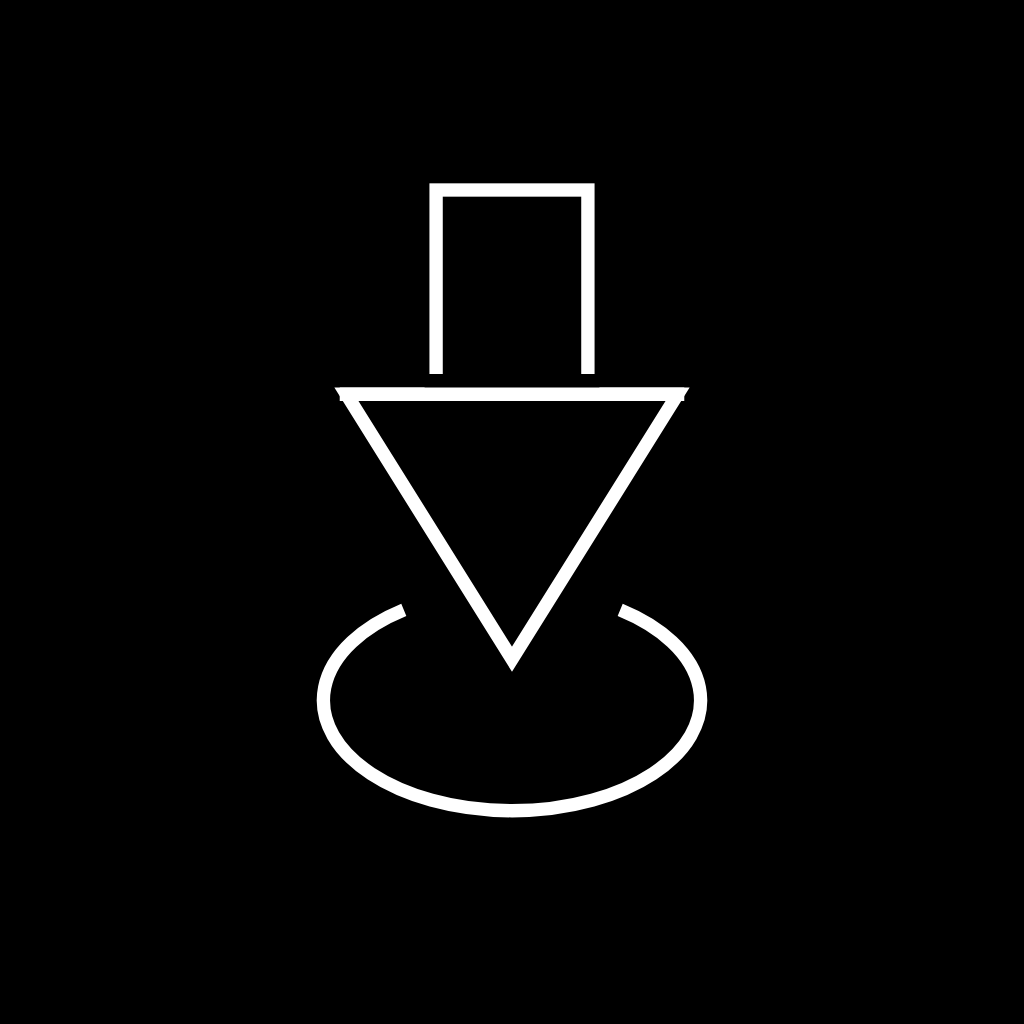
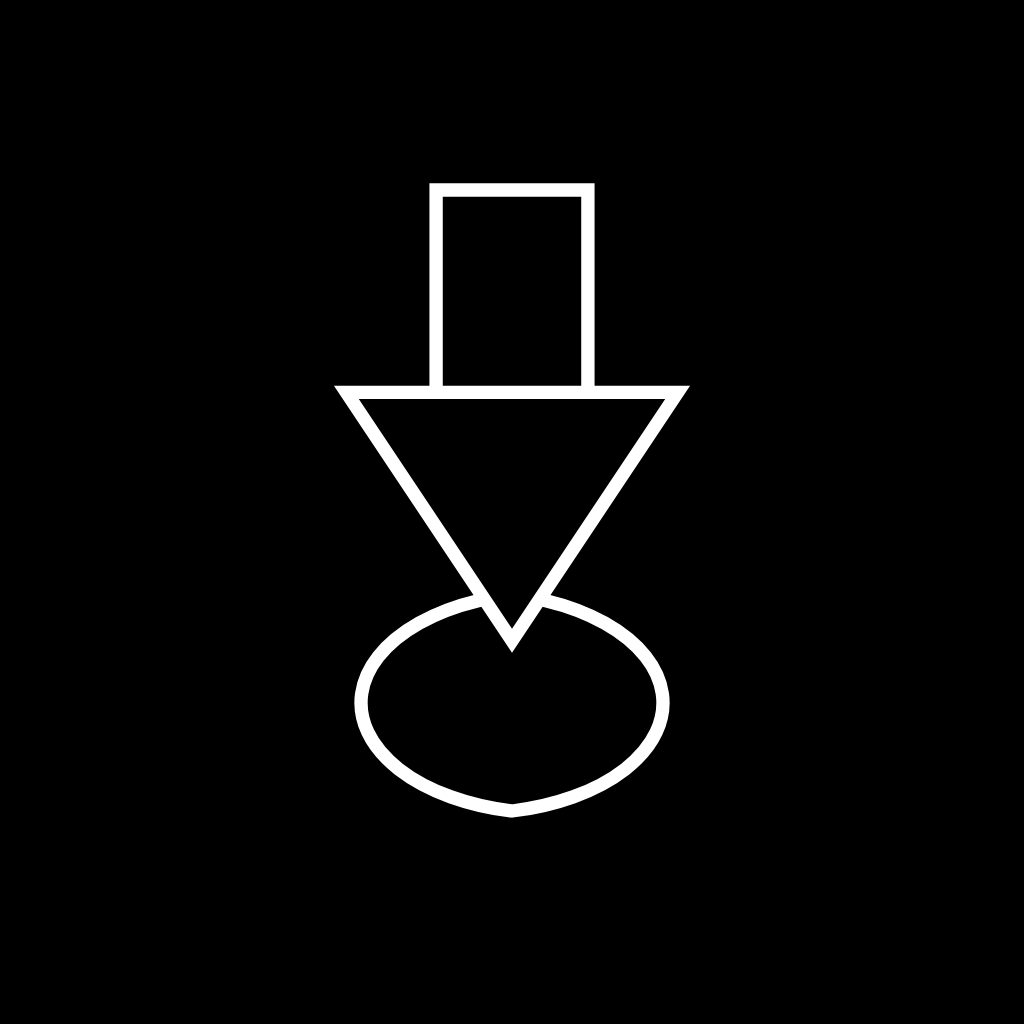
마크 tip을 원 안에 넣고 가림 호 제거
사각은 밑변 없이 seam에 맞추고, tipY=50으로 원에
진입시키며 교차 안쪽에서 원 호를 끊는다.

Changed region(s): [[0.3125, 0.4375, 0.6875, 0.8125], [0.3125, 0.3438, 0.6875, 0.4375]]

diff --git a/components/DomaMark.tsx b/components/DomaMark.tsx
@@ -9,9 +9,9 @@ type DomaMarkProps = {
 };
 
 /**
- * preferred 마크 — 한 심볼
- * - 삼각 윗변(seam) 한 줄 + 사각은 밑변 없이 안착
- * - tip이 원 상단 스트로크에 밀착(살짝 진입). 가려진 호만 미표기
+ * preferred 한 심볼:
+ * - 사각 밑변 없음 + 삼각 윗변(seam) 한 줄
+ * - tip이 원 안쪽으로 진입, 원 호는 삼각 빗변 교차점에서만 시작 (tip 밑 통과 금지)
  */
 export function DomaMark({
   size = 56,
@@ -23,19 +23,20 @@ export function DomaMark({
   const width = Math.round(size * (48 / 72));
 
   const seamY = 23;
-  /** 타원 상단 */
   const ellipseTop = 44.5;
-  /**
-   * tip을 원 상단 선에 맞춤(+스트로크 반 정도 진입).
-   * tip을 깊게 넣으면 속이 빈 간격처럼 보임 → 테두리에 안착.
-   */
-  const tipY = 45.3;
+  /** tip이 원 안으로 진입 (ellipseTop 44.5 → tip 50) */
+  const tipY = 50;
 
+  /** 삼각 닫힘: 윗변(seam) 한 줄 + 빗변. 사각 밑변은 그리지 않음 */
   const tri = `M6 ${seamY}H42L24 ${tipY}Z`;
+  /** 열린 ㄷ: 좌·우·윗변만 — 끝점이 seam에 butt로 닿아 이중 밑변 없음 */
   const rect = `M15.75 ${seamY}V1H32.25V${seamY}`;
-  /** tip 폭만큼만 상단 절단 · 하단 경유 */
+  /**
+   * tipY=50 빗변·원 교차 ≈ (20.45,44.68)-(27.55,44.68)
+   * 끝점을 교차보다 살짝 안쪽 → tip 밑 원 호 미작성, 어깨 갭 최소
+   */
   const ellipseOpen =
-    "M22.9 44.5A20.5 12 0 0 1 24 68.5A20.5 12 0 0 1 25.1 44.5";
+    "M20.7 44.75A20.5 12 0 0 1 24 68.5A20.5 12 0 0 1 27.3 44.75";
 
   return (
     <svg
@@ -72,7 +73,7 @@ export function DomaMark({
         stroke={stroke}
         strokeWidth="1.45"
         strokeLinejoin="miter"
-        strokeLinecap="square"
+        strokeLinecap="butt"
       />
     </svg>
   );
